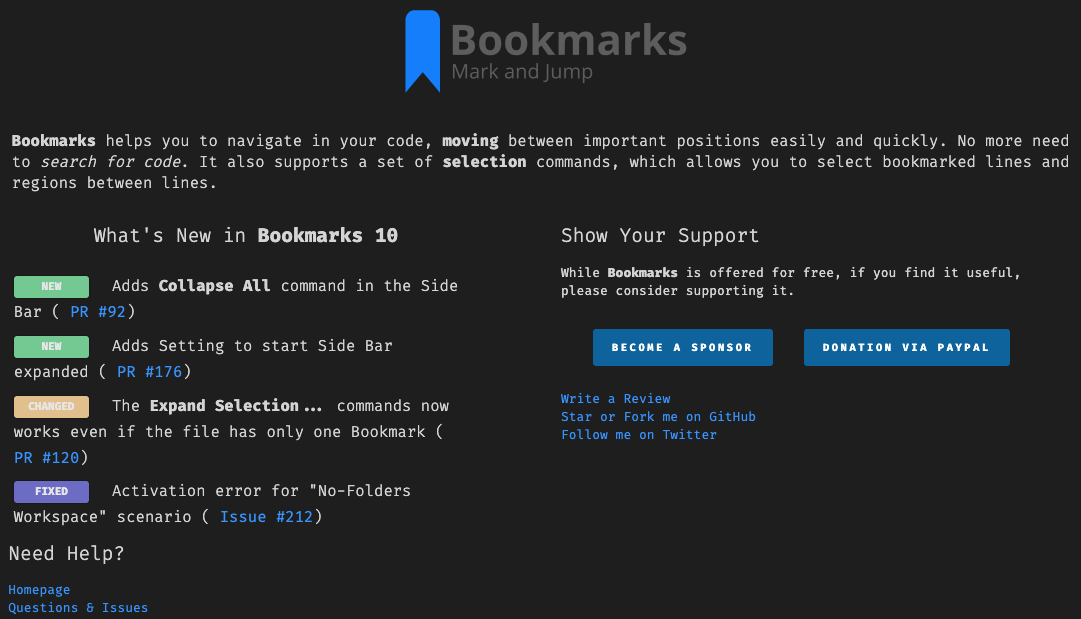
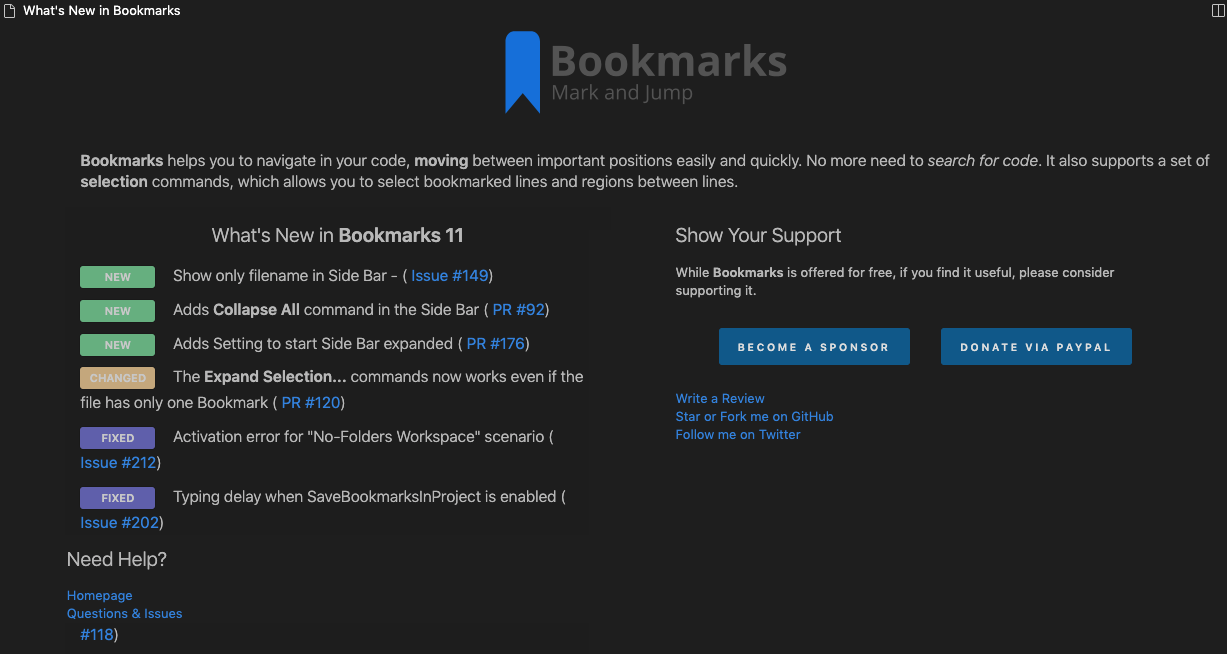
readme updated

diff --git a/README.md b/README.md
@@ -1,6 +1,6 @@
-# What's New
+# What's New submodule
 
-This module is a template based engine, used to display a **What's New** page on VS Code extensions. It has a simple, but yet effective UI, optimized to display all the information in a single page.
+This submodule is used to display a **What's New** page on my VS Code extensions. It has a simple (but yet effective) UI, optimized to display all the information in a single page.
 
 ![whats-new-bookmarks](images/whats-new-bookmarks.png)
 
@@ -9,54 +9,55 @@ This module is a template based engine, used to display a **What's New** page on
 ```ts
 
 // provide the data
-
 import { ChangeLogItem, ChangeLogKind, ContentProvider, Header, Image } from "../../vscode-whats-new/src/ContentProvider";
 
-export class WhatsNewDelphiKeybindingsContentProvider implements ContentProvider {
+export class WhatsNewBookmarksContentProvider implements ContentProvider {
 
     provideHeader(logoUrl: string): Header {
         return <Header>{logo: <Image> {src: logoUrl, height: 50, width: 50}, 
-            message: `<b>Project Manager</b> helps you to easily access your <b>projects</b>,
-            no matter where they are located. <i>Don't miss that important projects anymore</i>.`};
+            message: `<b>Bookmarks</b> helps you to navigate in your code, <b>moving</b> 
+            between important positions easily and quickly. No more need 
+            to <i>search for code</i>. It also supports a set of <b>selection</b>
+            commands, which allows you to select bookmarked lines and regions between
+            lines.`};
     }
 
     provideChangeLog(): ChangeLogItem[] {
         let changeLog: ChangeLogItem[] = [];
-        changeLog.push({kind: ChangeLogKind.NEW, message: "Adds an all-new Project Manager <b>Side Bar</b>"});
-        changeLog.push({kind: ChangeLogKind.NEW, message: "Adds <b>Remote Development</b> support"});
-        changeLog.push({kind: ChangeLogKind.FIXED, message: `The projects in the <b>Side Bar</b> should not be sorted case-sensitive (<a title=\"Open Issue #243\" 
-            href=\"https://github.com/alefragnani/vscode-project-manager/issues/243\">
-            Issue #243</a>)`});
-        return changeLog;
-    }
+        changeLog.push({kind: ChangeLogKind.NEW, message: `Show only filename in Side Bar - (<a title=\"Open Issue #149\" 
+            href=\"https://github.com/alefragnani/vscode-bookmarks/issues/149\">
+            Issue #149</a>)`});
+        changeLog.push({kind: ChangeLogKind.CHANGED, message: `The <b>Expand Selection...</b> commands now works even if the file has only one Bookmark (<a title=\"Open Issue #120\" 
+            href=\"https://github.com/alefragnani/vscode-bookmarks/issues/120\">
+            PR #120</a>)`});
+        changeLog.push({kind: ChangeLogKind.FIXED, message: `Activation error for "No-Folders Workspace" scenario (<a title=\"Open Issue #212\" 
+            href=\"https://github.com/alefragnani/vscode-bookmarks/issues/212\">
+            Issue #212</a>)`});
 }
 
 // register the provider
-const provider = new WhatsNewProjectManagerContentProvider();
-const viewer = new WhatsNewManager(context).registerContentProvider("project-manager", provider);
+const provider = new WhatsNewBookmarksContentProvider();
+const viewer = new WhatsNewManager(context).registerContentProvider("bookmarks", provider);
+
 // show the page (if necessary)
 viewer.showPageInActivation();
 
 // register the additional command (not really necessary, unless you want a command registered in your extension)
-context.subscriptions.push(vscode.commands.registerCommand("projectManager.whatsNew", () => viewer.showPage()));
+context.subscriptions.push(vscode.commands.registerCommand("bookmarks.whatsNew", () => viewer.showPage()));
 ```
 ## Features
 
 ### Detects version updates
 
-The module follows [SEMVER - Semantic Versioning](https://www.semver.org), detecting **Major**, **Minor** and **Patch** versions. The **What's New** page will only be displayed when a **Major** or **Minor** update occurs. **Patches** are silent.
+It follows [SEMVER - Semantic Versioning](https://www.semver.org) to detect **Major**, **Minor** and **Patch** versions. The **What's New** page will only be displayed when a **Major** or **Minor** update occurs. **Patches** are updated silently.
 
 ### Template Based
 
-There is not need to deal with HTML or CSS for updating the page's content. Simply _provides_ the relevant information and the HTML page is automatically generated.
-
-### Dark and Light Themes support
-
-Ready for both Dark and Light themes
+I don't have to deal with HTML or CSS on my extensions anymore. I just have to _provide_ the relevant information and the HTML page is automatically generated/updated.
 
 ## Inspiration
 
-The idea to this module came from the [GitLens extension](https://marketplace.visualstudio.com/items?itemName=eamodio.gitlens) (big thanks to Eric Amodio :claps:). Based on pieces of its welcome page, this template based engine was created, and now can be used by any extension.
+The idea came from the [GitLens extension](https://marketplace.visualstudio.com/items?itemName=eamodio.gitlens) by @eamodio (big thanks to Eric Amodio :claps:). Based on pieces of its welcome page, I created this template based engine, to be able to use in any of my extensions, with minimum effort.
 
 # License
 
